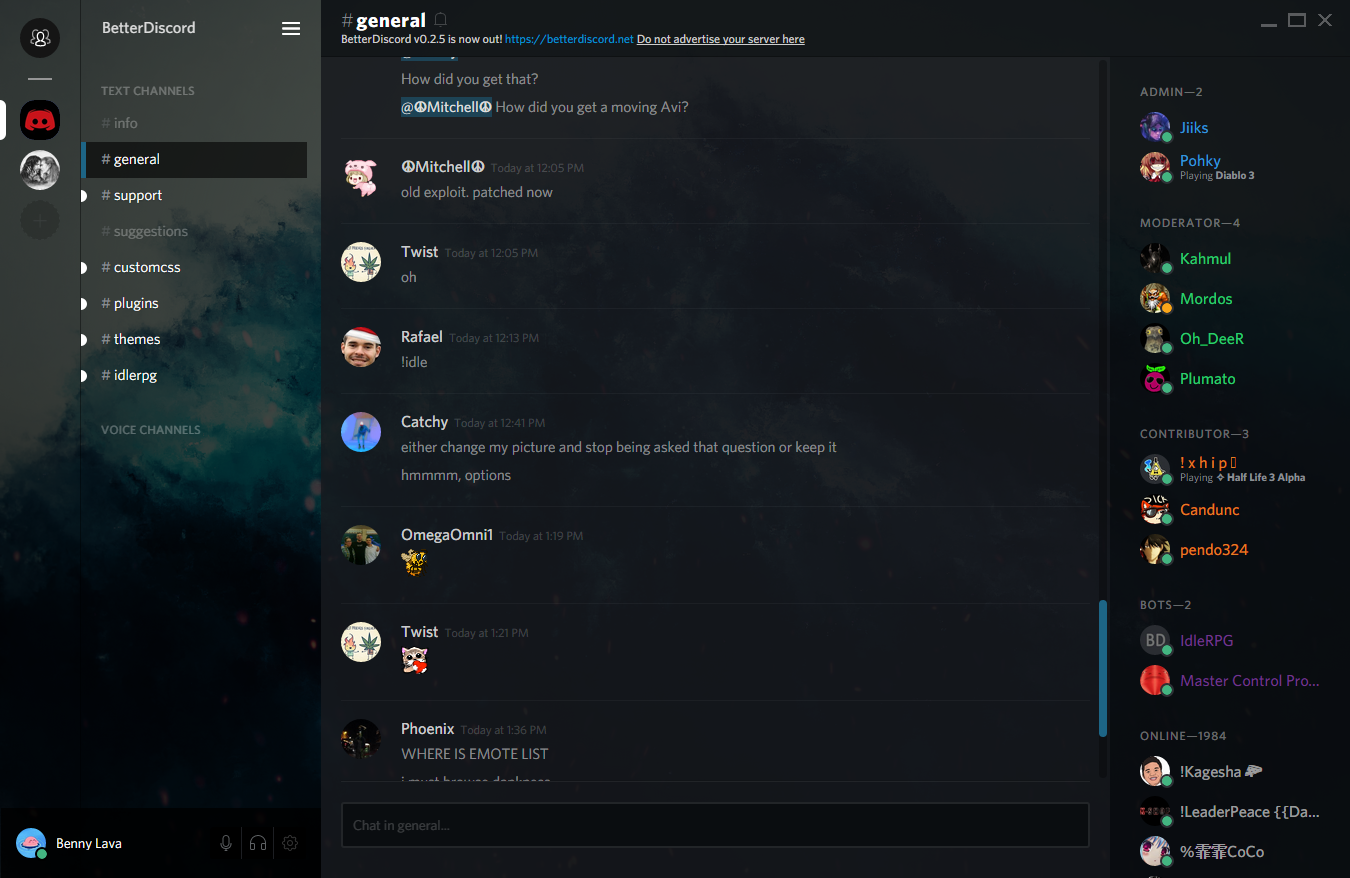
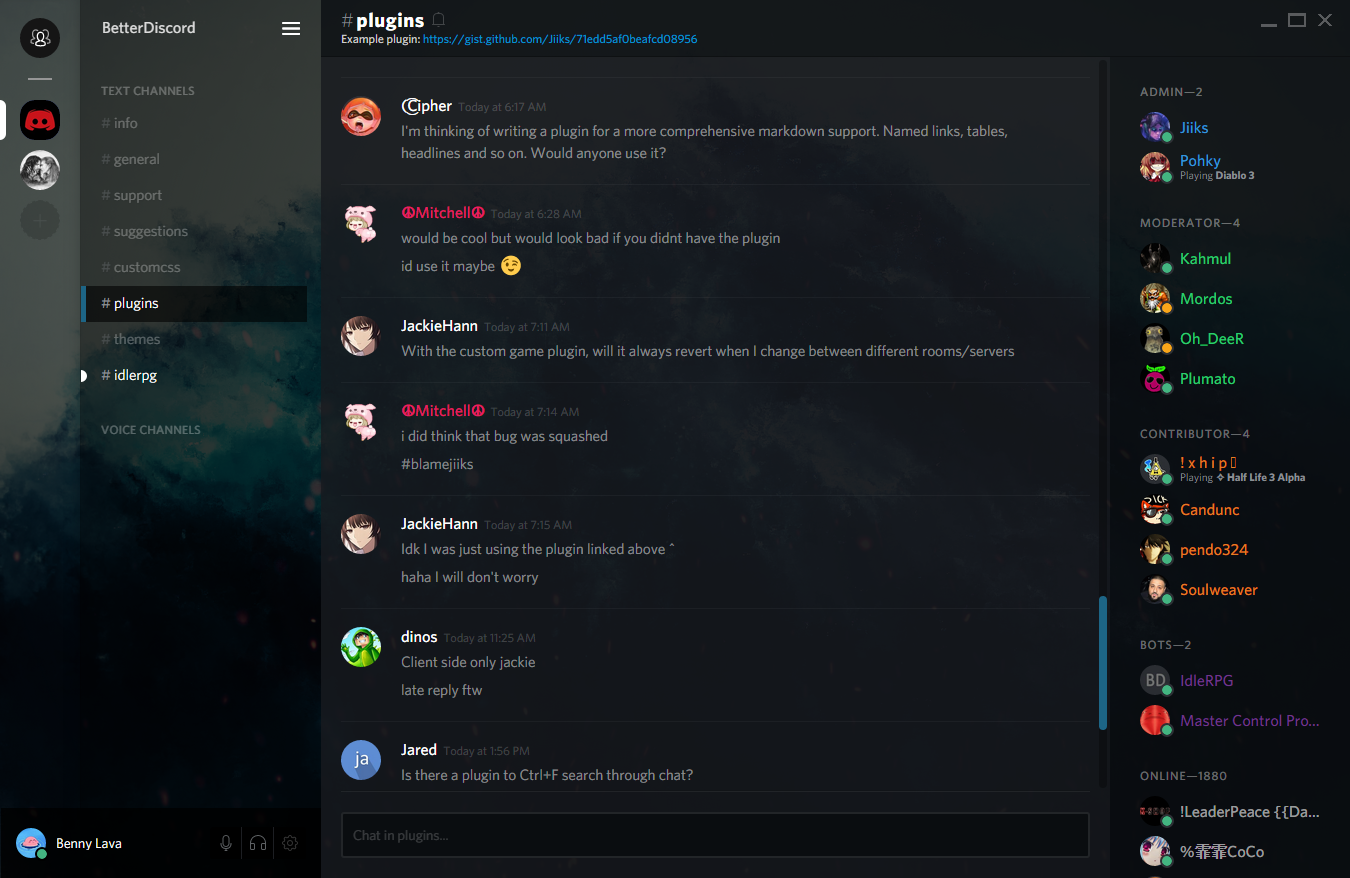
Minor changes to sidebar colors

diff --git a/themes/DarkMatter.css b/themes/DarkMatter.css
@@ -53,7 +53,6 @@ textarea {
 	background-color: transparent;
 }
 
-#voice-connection,
 .guild-channels,
 .links,
 .chat,
@@ -65,12 +64,25 @@ textarea {
 	background: transparent !important;
 }
 
+#voice-connection {
+	background:rgba(0,0,0,0.3);
+}
+
+.guilds-wrapper, .channels-wrap {
+	background:rgba(0,0,0,0.75);
+}
+
+.guilds-wrapper {
+	background:rgba(0,0,0,0.6) !important;
+	box-shadow:inset -10px 0px 20px -10px rgba(0,0,0,0.2);
+}
+
 .chat .new-messages-bar {
-	background-color: rgba(29,101,134,.9);
+	background-color:rgba(29,101,134,.9);
 }
 
 .chat .new-messages-bar:hover {
-	background-color: rgba(29,101,134,1);
+	background-color:rgba(29,101,134,1);
 }
 
 .chat .new-messages-bar button:last-child {
@@ -133,10 +145,6 @@ textarea {
 
 .chat>.content .messages .message-group h2 span {
 	color:rgba(255,255,255,0.2) !important;
-}
-
-.guilds-wrapper, .channels-wrap {
-	background:rgba(0,0,0,0.7);
 }
 
 .guilds-wrapper {
@@ -317,6 +325,11 @@ textarea {
 	border: 2px solid rgba(255,255,255,0.1) !important;
 	background:rgba(10,13,16,0.95) !important;
 }
+
+.channel-textarea {
+    margin: 20px 0 20px;
+}
+
 
 /* SETTINGS */
 
